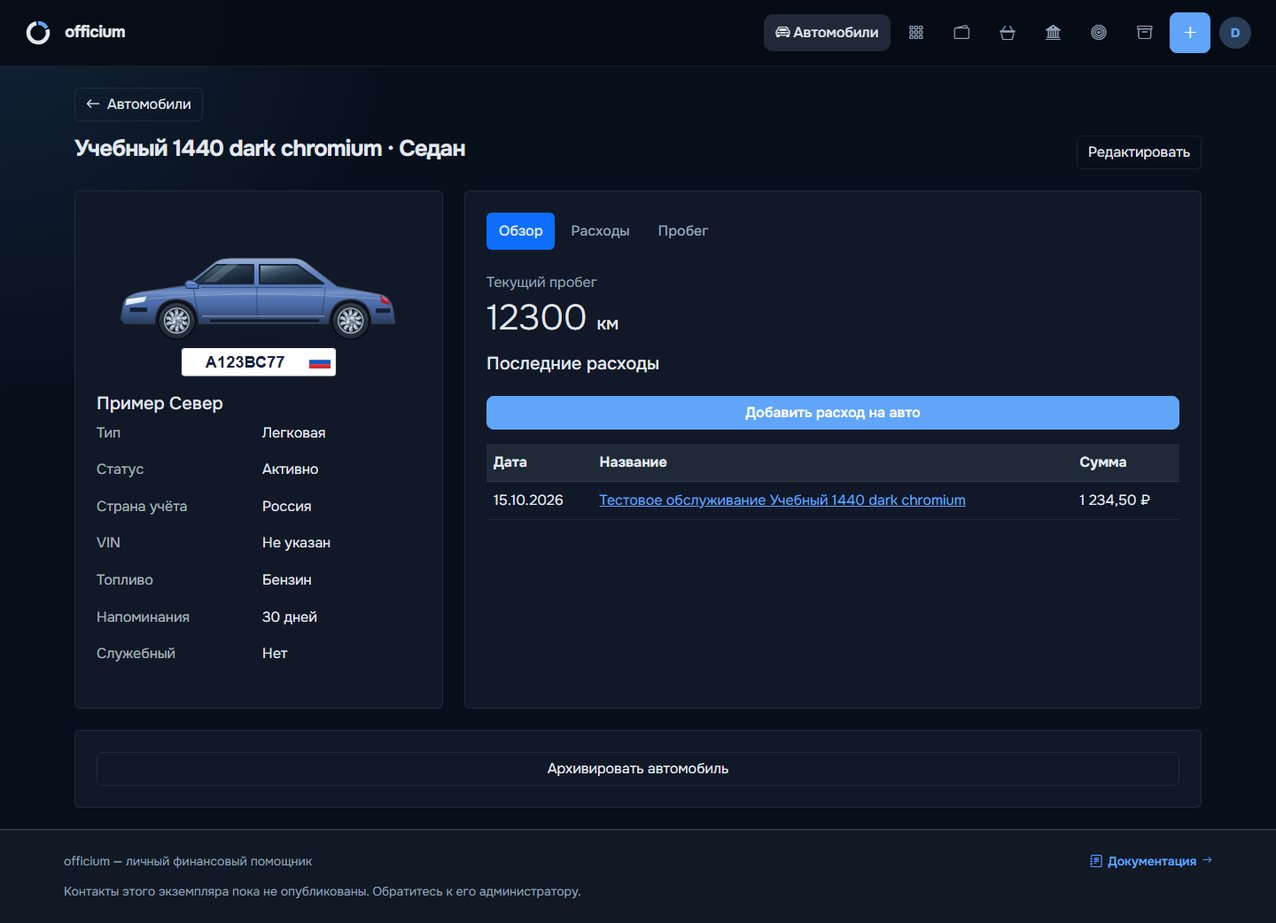
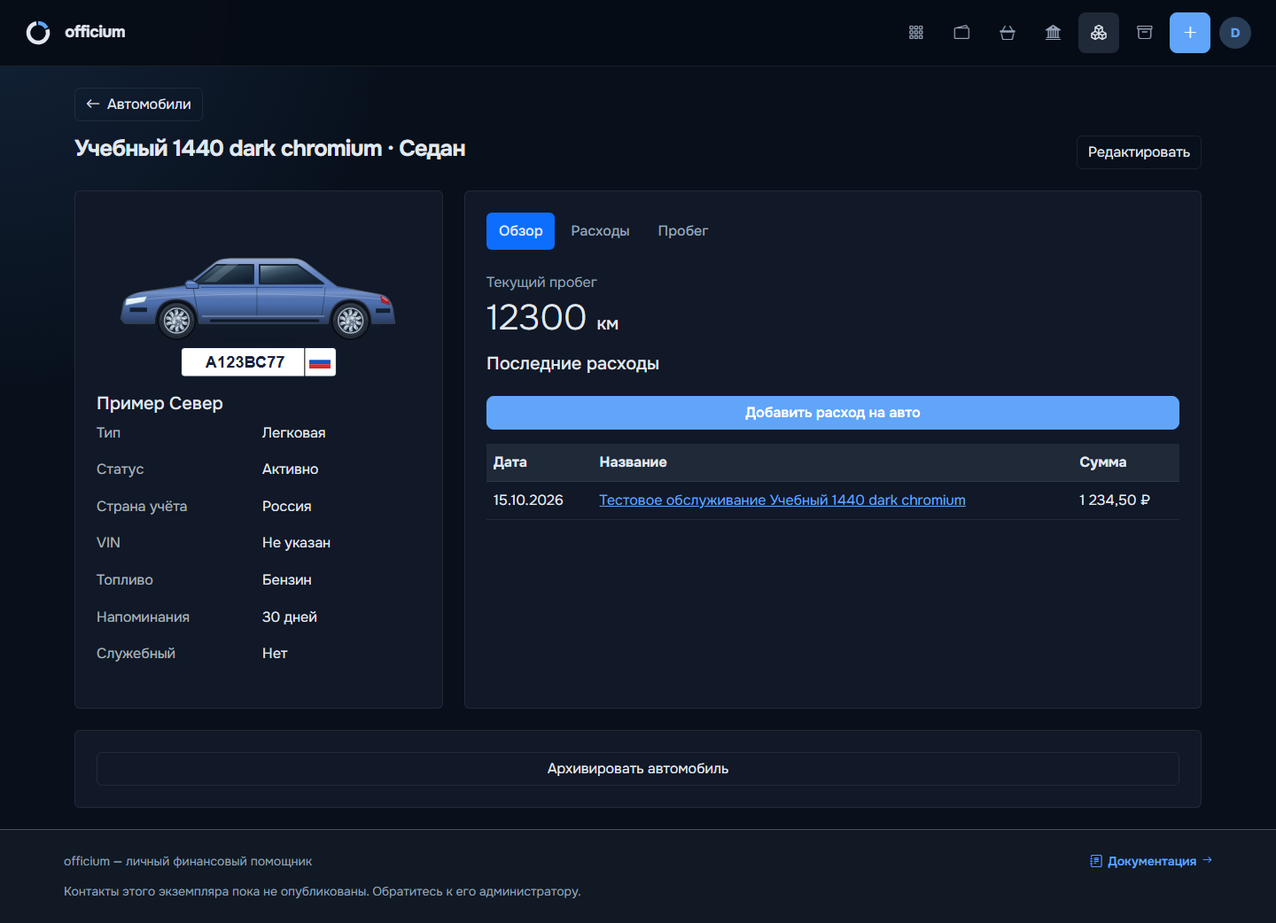
fix(navigation): preserve module link clicks in safari

Changed region(s): [[0.5938, 0.0, 0.7188, 0.0614], [0.8438, 0.0, 0.875, 0.0614]]

diff --git a/tests/e2e/vehicles-checklist.spec.js b/tests/e2e/vehicles-checklist.spec.js
@@ -4,7 +4,7 @@ const dateInMoscow = () => {
   const parts = new Intl.DateTimeFormat('en', { timeZone: 'Europe/Moscow', year: 'numeric', month: '2-digit', day: '2-digit' }).formatToParts(new Date());
   return ['year', 'month', 'day'].map(key => parts.find(part => part.type === key).value).join('-');
 };
-const cents = text => Math.round(Number(text.replace(/[^\d,-]/g, '').replace(',', '.')) * 100);
+const cents = text => Math.round(Number(text.replace(/[^\d,.-]/g, '').replace(',', '.')) * 100);
 const saveVehicle = async page => {
   await page.getByRole('button', { name: 'Сохранить автомобиль', exact: true }).click();
   await page.waitForURL(/\/vehicles\/\d+$/);
@@ -183,4 +183,32 @@ test('vehicle checklist: country management, code badge and administrator privac
   await expect(page.locator(`[name="registration_country_id"] option[value="${countryId}"]`)).toHaveCount(0);
   await page.goto(`${vehiclePath}/edit`);
   await expect(page.locator('[name="registration_country_id"]')).toHaveValue(countryId);
+});
+
+test('vehicle checklist: bank import cannot change an archived vehicle expense', async ({ page }, testInfo) => {
+  test.setTimeout(180_000);
+  const title = `Такси учебная ежемесячная перевозка ${testInfo.project.name}`;
+  await page.goto('/dev-login/user');
+  const vehiclePath = await createVehicle(page, `Учебное авто импорта ${testInfo.project.name}`);
+  await page.goto(`${vehiclePath}/expense`);
+  await page.locator('[name="title"]').fill(title);
+  await page.locator('[name="amount"]').fill('123.45');
+  await page.locator('[name="expense_date"]').fill(dateInMoscow());
+  await page.locator('[name="is_monthly"]').check();
+  await page.getByRole('button', { name: 'Сохранить расход', exact: true }).click();
+  await page.waitForURL(/month=/);
+  const editExpense = await page.locator('tr', { hasText: title }).getByRole('link', { name: 'Редактировать', exact: true }).getAttribute('href');
+  await page.goto(vehiclePath);
+  await page.getByRole('button', { name: 'Архивировать автомобиль', exact: true }).click();
+  await page.getByRole('button', { name: 'В архив', exact: true }).click();
+  await page.goto('/expenses/import');
+  const bankDate = dateInMoscow().split('-').reverse().join('.');
+  const csv = `Сбербанк Онлайн\nДата операции;Описание операции;Сумма операции;Категория;Карта\n${bankDate};${title};-999,00;Транспорт;*1111\n`;
+  await page.locator('[name="statement_file"]').setInputFiles({ name: 'fictional-transport.csv', mimeType: 'text/csv', buffer: Buffer.from(csv, 'utf8') });
+  await page.getByRole('button', { name: 'Разобрать', exact: true }).click();
+  await expect(page.locator('[name="action_0"]')).toHaveValue('update_monthly');
+  await page.locator('form[action$="/expenses/import/confirm"] button[type="submit"]').click();
+  await expect(page.locator('.alert-danger:visible')).toContainText('Автомобиль в архиве');
+  await page.goto(editExpense);
+  expect(cents(await page.locator('[name="amount"]').inputValue())).toBe(12345);
 });

diff --git a/tests/e2e/modules-menu.spec.js b/tests/e2e/modules-menu.spec.js
@@ -3,6 +3,7 @@ const { test, expect } = require('@playwright/test');
 for (const width of [1440, 390]) {
   for (const theme of ['light', 'dark']) {
     test(`modules menu ${width}px ${theme}`, async ({ page }, testInfo) => {
+      test.setTimeout(120_000);
       await page.setViewportSize({ width, height: 1000 });
       await page.addInitScript(value => localStorage.setItem('officiumTheme', value), theme);
       await page.goto('/dev-login/user');
@@ -49,6 +50,12 @@ for (const width of [1440, 390]) {
       }
       await menu.getByRole('link', { name: 'Автомобили', exact: true }).click();
       await expect(page).toHaveURL(/\/vehicles$/);
+      await expect(page.locator('#modulesMenuToggle')).toHaveClass(/active/);
+      if (width < 992) await page.locator('.navbar-toggler').click();
+      if (width >= 992) await toggle.press('ArrowDown');
+      else await toggle.click();
+      await menu.getByRole('link', { name: 'Цели', exact: true }).press('Enter');
+      await expect(page).toHaveURL(/\/goals$/);
       await expect(page.locator('#modulesMenuToggle')).toHaveClass(/active/);
     });
   }

diff --git a/templates/base.html b/templates/base.html
@@ -761,7 +761,7 @@
 {% endif %}
 <script src="{{ url_for('static', filename='vendor/bootstrap/js/bootstrap.bundle.min.js') }}"></script>
 <script src="{{ url_for('static', filename='js/app.js') }}?v={{ config.APP_VERSION|urlencode }}&amp;rev=8"></script>
-<script src="{{ url_for('static', filename='js/modules-menu.js', v='2') }}"></script>
+<script src="{{ url_for('static', filename='js/modules-menu.js', v='3') }}"></script>
 {% if telegram_login_launch %}
 <script src="{{ url_for('static', filename='js/telegram-login.js') }}?v={{ config.APP_VERSION|urlencode }}" data-available="{{ 'true' if telegram_login_launch.available else 'false' }}" data-bot-id="{{ telegram_login_launch.bot_id or '' }}" data-auth-url="{{ telegram_login_launch.auth_url }}"></script>
 {% endif %}

diff --git a/static/js/modules-menu.js b/static/js/modules-menu.js
@@ -19,6 +19,10 @@
     });
     menu.addEventListener('focusin', () => window.clearTimeout(closeTimer));
     menu.addEventListener('focusout', event => {
+        // Safari may blur a focused item without focusing the clicked link.
+        // Keep that pointer interaction alive until click; pointerleave still
+        // closes the menu, and keyboard focus moving outside closes it below.
+        if (!event.relatedTarget && menu.matches(':hover')) return;
         if (!menu.contains(event.relatedTarget)) dropdown.hide();
     });
     menu.addEventListener('keydown', () => {

diff --git a/templates/expenses_import.html b/templates/expenses_import.html
@@ -24,7 +24,7 @@
             <input class="form-control" type="file" name="statement_file" accept=".csv,.txt,.tsv,.xlsx,.pdf" required>
         </div>
         <button type="submit" class="btn btn-primary import-upload__submit">
-            <i class="bi bi-search me-1"></i>Разобрать
+            <i class="bi bi-search me-1" aria-hidden="true"></i>Разобрать
         </button>
     </form>
 </section>

diff --git a/docs/qa/vehicles-stage1/TEST_REPORT_2026-10-27.md b/docs/qa/vehicles-stage1/TEST_REPORT_2026-10-27.md
@@ -1,0 +1,95 @@
+# Проверка автомобилей — 27 октября 2026
+
+Проверены сценарии этапа 1 и последующие изменения интерфейса. Браузерные
+сценарии работают с вымышленными данными в одноразовой SQLite-базе
+`scripts/e2e_server.py` на порту 5010. Пользовательская база приложения
+на порту 5000 для создания тестовых записей не использовалась.
+
+## Результаты
+
+| Проверка | Результат |
+|---|---|
+| Полный unittest после обновления Authlib | 738 тестов, OK, 7 пропусков на Windows |
+| Покрытие Python | 80,33%, порог 65%; отдельный прогон 737 тестов до обновления зависимости |
+| Импорт банковской выписки после правки доступности кнопки | 13 тестов, OK |
+| Регрессия Authlib, вход и Telegram-аутентификация | 33 целевых теста, OK |
+| Аудит runtime и build зависимостей | Известных уязвимостей не обнаружено |
+| SQLite upgrade, heads, check | Одна голова `20261027_vehicle_core`, расхождений моделей и миграций нет |
+| Выключенный флаг | 28 гостевых/авторизованных HTTP GET/POST возвращают 404; ссылки скрыты, цели доступны |
+| Цвета SVG | 80 комбинаций: 10 кузовов × 4 цвета × 2 темы; изображения меняются до сохранения |
+| Firefox | 11 сценариев успешно: 6 в первом отдельном прогоне и 5 после исправления теста импорта |
+| Chromium | 11 сценариев успешно: 10 в общем прогоне и отдельный новый сценарий импорта |
+| WebKit | Все 11 сценариев успешно в одном прогоне после исправления фокуса меню |
+| Заключительный повтор меню после всех исправлений | 12 из 12 успешно в одном прогоне: 3 движка × 2 ширины × 2 темы; оба перехода и клавиатура |
+
+Семь пропусков полного набора относятся к пяти проверкам символических
+ссылок и двум проверкам Linux/systemd. Они не свидетельствуют о прохождении
+этих сценариев на Windows. Проверки Linux, Python 3.10/3.13, MySQL,
+резервного копирования, shellcheck/bats и аудита также прошли в CI на
+коммите `5f8537b`.
+
+## Что проверяют браузерные сценарии
+
+- `tests/e2e/modules-menu.spec.js`: положение меню между ипотекой и архивом,
+  разделение пунктов, переходы, наведение и уход мыши, снятие искусственного
+  фокуса, Escape, клавиатура и нажатия на узком экране.
+- `tests/e2e/vehicles.spec.js`: четыре сочетания ширины 1440/390 px и тем,
+  номера РФ и Абхазии, отказ для неверного номера РФ, тягач и прицеп,
+  клики по изображению и названию, расход из карточки, скрытый выбор авто
+  в обычных расходах, архив, пробег, напоминания и отсутствие горизонтального
+  переполнения. Сохраняются 28 снимков ключевых экранов.
+- `tests/e2e/vehicles-checklist.spec.js`: влияние расхода на итог месяца,
+  монотонность пробега в обе стороны по датам, групповое обновление,
+  snooze, интервал 0, ремонт, архив и восстановление, запрет изменения
+  суммы и привязки архивного расхода, IDOR с действующим CSRF-токеном,
+  страны без флага и отключение страны, приватность админки и CSV журнала,
+  запрет изменения архивного ежемесячного расхода импортом настоящего CSV.
+
+## Найдено и исправлено
+
+1. Аудит обнаружил Authlib 1.7.2 с CVE-2026-96760. Зависимость обновлена
+   до 1.9.1, добавлен регрессионный тест отклонения пустого массива подписей
+   JWS. Это проверка дефекта библиотеки; обход входа в само приложение
+   не воспроизводился. [Описание разработчика](https://github.com/authlib/authlib/security/advisories/GHSA-6v38-4h7w-rj9h).
+2. Декоративная иконка попадала в доступное название кнопки «Разобрать»
+   в импорте выписки. Для неё установлен `aria-hidden="true"`.
+3. WebKit теряет фокус без нового `relatedTarget` при клике по пункту меню
+   после открытия клавиатурой. Обработчик закрывал меню до перехода.
+   Потеря фокуса без нового элемента при наведённом указателе теперь
+   сохраняет возможность клика; уход указателя и фокуса наружу закрывают меню.
+
+При разработке нового теста импорта исправлены его вымышленные данные
+для распознавания категории «Транспорт» и чтение десятичной точки в сумме.
+Защита архивного расхода сработала; сумма осталась прежней. Дополнительная
+проверка второго перехода после смены страницы выявила тайм-ауты повторного
+наведения Playwright в Firefox и WebKit. Финальный сценарий проверяет
+переход к автомобилям указателем, а к целям — клавиатурой; оба режима
+открытия, уход мыши и Escape проверяются до первого перехода. Общий бюджет
+расширенного сценария с двумя переходами — 120 секунд; ожидания отдельных
+утверждений остаются по 8 секунд.
+
+## Воспроизведение
+
+Из активированного окружения с установленными Python- и npm-зависимостями:
+
+```text
+python -m unittest discover -s tests -p "test_*.py" -v
+node node_modules/@playwright/test/cli.js test tests/e2e/vehicles.spec.js tests/e2e/modules-menu.spec.js tests/e2e/vehicles-checklist.spec.js
+python -m pip_audit -r requirements.txt --disable-pip
+python -m pip_audit -r requirements-build.txt --disable-pip
+```
+
+Снимки экранов и чек-лист находятся в [README](README.md).
+
+## Границы проверки
+
+390 px — браузерная эмуляция с заглушкой Telegram API. Настоящие клиенты
+Telegram, вход через реальный Google-аккаунт, физические телефоны и
+production-развёртывание не проверялись. Проверки скриптов развёртывания
+в CI не означают развёртывание production.
+
+Первый общий локальный прогон остановился на тайм-ауте Firefox с сообщением
+SWGL о framebuffer; все 11 сценариев Firefox прошли в отдельных прогонах. В CI первый
+браузерный job и его повтор были отменены на установке Playwright и
+системных пакетов до запуска тестов. Успешный браузерный CI не заявляется;
+локальные проверки учитываются отдельно.

diff --git a/docs/qa/vehicles-stage1/README.md b/docs/qa/vehicles-stage1/README.md
@@ -65,37 +65,40 @@ python run.py
 Открыть `/dev-login/user`, затем `/vehicles`. Страны настраиваются через
 `/dev-login/superadmin` → `/admin/dictionaries` → «Страны учёта автомобилей».
 
-## Чек-лист ручной проверки
+## Чек-лист проверки
 
-- [ ] В верхней навигации между ипотекой и архивом открыть «Модули» наведением;
+Пройден браузерными, HTTP- и сервисными проверками 27.10.2026.
+Методы, результаты и ограничения: [отчёт](TEST_REPORT_2026-10-27.md).
+
+- [x] В верхней навигации между ипотекой и архивом открыть «Модули» наведением;
   проверить переходы к автомобилям и целям, Escape и управление клавиатурой.
   На узком экране меню открывается нажатием.
-- [ ] Добавить легковую с вымышленным номером `a123bc77`: увидеть `А123ВС77`.
-- [ ] Ввести `d123bc77`: получить понятный отказ без сохранения автомобиля.
-- [ ] Добавить тягач и сразу прицеп; открыть оба и проверить текущую связку.
-- [ ] У прицепа не должно быть топлива, вкладки пробега и напоминаний.
-- [ ] Добавить через карточку расход; проверить категорию «Транспорт»,
+- [x] Добавить легковую с вымышленным номером `a123bc77`: увидеть `А123ВС77`.
+- [x] Ввести `d123bc77`: получить понятный отказ без сохранения автомобиля.
+- [x] Добавить тягач и сразу прицеп; открыть оба и проверить текущую связку.
+- [x] У прицепа не должно быть топлива, вкладки пробега и напоминаний.
+- [x] Добавить через карточку расход; проверить категорию «Транспорт»,
   историю расходов, вкладку авто и сумму месяца на главной.
-- [ ] Добавить замеры 100 и 200 км на последовательные даты; попробовать
+- [x] Добавить замеры 100 и 200 км на последовательные даты; попробовать
   99 км после первого и 201 км между ними: оба варианта отклоняются.
-- [ ] Открыть главную и список без свежих замеров; обновить несколько авто
+- [x] Открыть главную и список без свежих замеров; обновить несколько авто
   одной формой, затем проверить «Напомнить через 3 дня» и интервал 0.
-- [ ] Перевести авто в ремонт: напоминание должно исчезнуть.
-- [ ] Заархивировать авто; убедиться, что карточка только для чтения,
+- [x] Перевести авто в ремонт: напоминание должно исчезнуть.
+- [x] Заархивировать авто; убедиться, что карточка только для чтения,
   нельзя добавить замер или расход, поменять сумму или авто у связанного
   расхода. Попытаться изменить сумму через импорт ежемесячного расхода.
-- [ ] Восстановить авто; повторить изменение расхода.
-- [ ] Другой пользователь, включая администратора в личном кабинете,
+- [x] Восстановить авто; повторить изменение расхода.
+- [x] Другой пользователь, включая администратора в личном кабинете,
   должен получать 404 на чужие идентификаторы автомобилей.
-- [ ] У суперадминистратора добавить страну без SVG: увидеть код на номере.
+- [x] У суперадминистратора добавить страну без SVG: увидеть код на номере.
   Выключенная страна не предлагается для новых авто; существующая остаётся.
-- [ ] В админке и выгрузках журнала нет названий авто, VIN, госномеров,
+- [x] В админке и выгрузках журнала нет названий авто, VIN, госномеров,
   сумм пробега и примечаний архива.
-- [ ] Проверить ключевые экраны на 1440 и 390 px в обеих темах.
-- [ ] В форме выбрать разные кузова и красный, зелёный, белый и чёрный цвета.
+- [x] Проверить ключевые экраны на 1440 и 390 px в обеих темах.
+- [x] В форме выбрать разные кузова и красный, зелёный, белый и чёрный цвета.
   Предпросмотр меняется до сохранения; шины, диски, стёкла и фары сохраняют
   свои материалы. После сохранения выбранный цвет виден в списке и карточке.
-- [ ] Перезапустить с `VEHICLES_ENABLED=false`: меню и ссылки на главной
+- [x] Перезапустить с `VEHICLES_ENABLED=false`: меню и ссылки на главной
   исчезают, все маршруты модуля возвращают 404.
 
 ## Принятые решения и ограничения этапа
@@ -113,6 +116,7 @@ python run.py
   отдельное хранение трат организации относится к этапу 2.
 - Миграция следует существующему подходу forward-only: downgrade сохраняет
   историю. Перед обновлением требуется обычная резервная копия.
-- Реальная MySQL, настоящий Telegram-клиент и production-развёртывание
-  проверяются отдельно. В локальных миграционных тестах выполнены SQLite
-  upgrade с существующим расходом и компиляция фактического DDL для MySQL.
+- Настоящий Telegram-клиент и production-развёртывание проверяются отдельно.
+  В локальных миграционных тестах выполнены SQLite upgrade с существующим
+  расходом и компиляция фактического DDL для MySQL. Проверка настоящей MySQL
+  и восстановления резервной копии прошла в CI; подробности в отчёте QA.

diff --git a/CHANGELOG.md b/CHANGELOG.md
@@ -21,6 +21,10 @@
 
 ### Изменено
 
+- Исправлен переход из меню «Модули» в Safari после открытия клавиатурой:
+  потеря фокуса при клике больше не закрывает пункт до перехода.
+- Декоративная иконка кнопки разбора выписки скрыта от экранных дикторов,
+  чтобы доступное название кнопки соответствовало тексту «Разобрать».
 - Исправлено зависание раскрытой подписи «Модули» после ухода мыши:
   фокус, установленный открытием по наведению, снимается при закрытии меню.
 - Пункты меню «Модули» разделены отступом, индивидуальными рамками и
